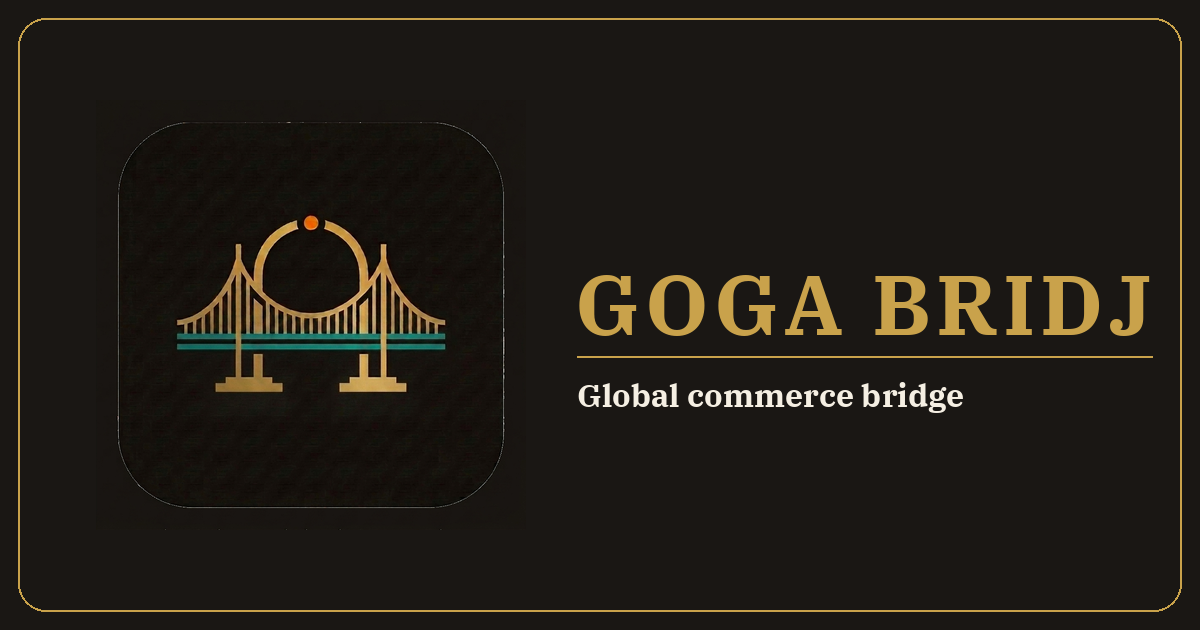
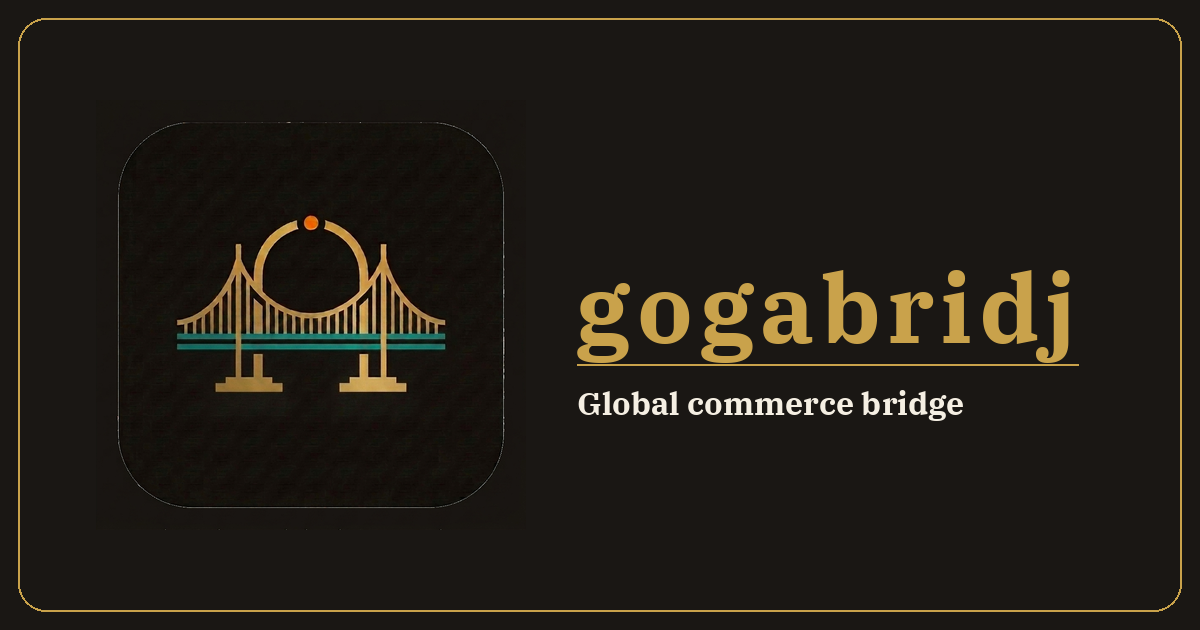
v38 #2: 표기 동시반영 Goga Bridj → gogabridj
- 영문 정식 표기를 'gogabridj'(전부 소문자·붙임)으로 확정, 띄어쓴 'Goga
  Bridj'·'GOGA BRIDJ' 전수 교체(사용자 노출만, 내부 식별자·repo·도메인 보존).
- branding.py _DEFAULT_BRAND_EN='gogabridj' + 하드코딩 리터럴 스윕(py/html/js/
  svg/css 23+곳: 콘솔 헤더·title·OG·랜딩·토스트·푸터·이메일/알림·sw push 제목·
  favicon aria·매니페스트 name). 매니페스트 양쪽 name='gogabridj'.
- OG 카드 워드마크 'GOGA BRIDJ'→'gogabridj' 재생성 + og:image 캐시 v=2→v=3.
- 영향 테스트 갱신 + 가드 test_v38_brand_gogabridj(4). 전체 10441 passed.
- before/after: docs/screens/v38/naming-{before,after}.png

Claude-Session: https://claude.ai/code/session_01PxGVkp5f6YphwkqMwzi5ZE

Changed region(s): [[0.4625, 0.4222, 0.9558, 0.6635]]

diff --git a/src/templates/landing.html b/src/templates/landing.html
@@ -2,7 +2,7 @@
    이모지 0 · 단일 아이콘셋(bi-*) · 토큰 단일소스 · 실데이터만(가짜 수치/혜택 0) · reduced-motion 존중. #}
 {% extends "_base_app.html" %}
 
-{% block title %}{{ brand_name|default('GOGA BRIDJ', true) }} — 해외 상품 수집부터 마켓 등록까지{% endblock %}
+{% block title %}{{ brand_name|default('gogabridj', true) }} — 해외 상품 수집부터 마켓 등록까지{% endblock %}
 {% block head %}
 <link rel="privacy-policy" href="/privacy">
 <style>
@@ -113,7 +113,7 @@
 
 <nav class="lpnav" id="lpnav">
   <div class="inner">
-    <a href="/" class="logo"><img src="/seller/static/favicon.svg?v=176" alt=""> {{ brand_name|default('GOGA BRIDJ', true) }}</a>
+    <a href="/" class="logo"><img src="/seller/static/favicon.svg?v=176" alt=""> {{ brand_name|default('gogabridj', true) }}</a>
     <div class="ms-auto d-flex align-items-center gap-3">
       <a href="#features" class="navlink d-none d-md-inline">{{ 'Features' if EN else '기능' }}</a>
       <a href="#how" class="navlink d-none d-md-inline">{{ 'How it works' if EN else '작동 방식' }}</a>
@@ -166,7 +166,7 @@
       </div>
       <div class="reveal">
         <hr class="hairline d-md-none">
-        <div class="overline">{{ 'With Goga Bridj' if EN else '고가브릿지라면' }}</div>
+        <div class="overline">{{ 'With gogabridj' if EN else '고가브릿지라면' }}</div>
         <h2 class="disp">{{ 'All in one flow' if EN else '한 번에, 흐름대로' }}</h2>
         <p class="lead">{{ 'Collect with one click, auto-translate, set prices in bulk, and list to many markets at once.' if EN else '한 번에 수집·자동 번역·일괄 가격, 그리고 여러 마켓에 한 번에 등록. 다리(Bridj)처럼 이어줍니다.' }}</p>
       </div>
@@ -287,7 +287,7 @@
 
 <footer class="lpfoot">
   <div class="inner">
-    <span class="fw-semibold" style="color:var(--text);">{{ brand_name|default('GOGA BRIDJ', true) }}</span>
+    <span class="fw-semibold" style="color:var(--text);">{{ brand_name|default('gogabridj', true) }}</span>
     <a href="/seller/about">{{ "About" if EN else "소개" }}</a>
     <a href="/seller/start">{{ "Get started" if EN else "시작하기" }}</a>
     <a href="/privacy">개인정보처리방침</a>

diff --git a/src/templates/_base_app.html b/src/templates/_base_app.html
@@ -2,10 +2,10 @@
 {# 공통 베이스 템플릿 #}
 <html lang="ko">
 <head>
-  {% set _brand_name = brand_name|default('GOGA BRIDJ', true) %}
+  {% set _brand_name = brand_name|default('gogabridj', true) %}
   <meta charset="utf-8">
   <meta name="viewport" content="width=device-width, initial-scale=1">
-  <title>{% block title %}GOGA BRIDJ{% endblock %} | {{ _brand_name }}</title>
+  <title>{% block title %}gogabridj{% endblock %} | {{ _brand_name }}</title>
   {# v16 P1: 링크 공유 카드 브랜딩 — 이름·소개·이미지가 제대로 뜨도록 OG/트위터 정비 #}
   {% set _og_base = (request.url_root.rstrip('/') if request else '') %}
   <meta name="description" content="{{ self.og_description() }}">
@@ -13,12 +13,12 @@
   <meta property="og:type" content="website">
   <meta property="og:title" content="{% block og_title %}{{ _brand_name }} — 해외 상품 수집부터 마켓 등록까지 한 번에{% endblock %}">
   <meta property="og:description" content="{% block og_description %}해외 상품을 수집·번역·다듬어 내 마켓에 올리는 구매대행 올인원. 고가브릿지.{% endblock %}">
-  <meta property="og:image" content="{% block og_image %}{{ _og_base }}/seller/static/og-card.png?v=2{% endblock %}">
+  <meta property="og:image" content="{% block og_image %}{{ _og_base }}/seller/static/og-card.png?v=3{% endblock %}">
   <meta property="og:url" content="{{ request.url if request else _og_base }}">
   <meta name="twitter:card" content="summary_large_image">
   <meta name="twitter:title" content="{{ self.og_title() }}">
   <meta name="twitter:description" content="{{ self.og_description() }}">
-  <meta name="twitter:image" content="{{ _og_base }}/seller/static/og-card.png?v=2">
+  <meta name="twitter:image" content="{{ _og_base }}/seller/static/og-card.png?v=3">
   <link rel="icon" type="image/svg+xml" href="/seller/static/favicon.svg?v=176">
   <link rel="icon" type="image/x-icon" href="/seller/static/favicon.ico?v=176">
   <link rel="icon" type="image/png" sizes="32x32" href="/seller/static/favicon-32.png?v=176">

diff --git a/src/seller_console/templates/markets_guide.html b/src/seller_console/templates/markets_guide.html
@@ -40,7 +40,7 @@
           <path d="M0,0 L6,3 L0,6 Z" fill="#9aa"/></marker></defs>
         <rect x="378" y="20" width="174" height="110" rx="10" fill="#f6f9f6" stroke="#bfe3c6"/>
         <rect x="378" y="20" width="174" height="24" rx="10" fill="#e3f5e8"/>
-        <text x="465" y="37" text-anchor="middle" font-size="12" fill="#2b6a3a">GOGA BRIDJ</text>
+        <text x="465" y="37" text-anchor="middle" font-size="12" fill="#2b6a3a">gogabridj</text>
         <rect x="394" y="60" width="142" height="20" rx="5" fill="#fff" stroke="#cfe6d4"/>
         <text x="465" y="74" text-anchor="middle" font-size="10" fill="#789">여기에 붙여넣기</text>
         <rect x="394" y="92" width="142" height="22" rx="6" fill="#198754"/>

diff --git a/src/seller_console/static/sw.js b/src/seller_console/static/sw.js
@@ -1,4 +1,4 @@
-// sw.js — Phase 147 Service Worker (Goga Bridj PWA) · v36 캐시 갱신
+// sw.js — Phase 147 Service Worker (gogabridj PWA) · v36 캐시 갱신
 const CACHE_NAME = 'goga-bridj-v36';
 const STATIC_ASSETS = [
   '/seller/dashboard',
@@ -49,7 +49,7 @@ self.addEventListener('push', event => {
   if (!event.data) return;
   let data = {};
   try { data = event.data.json(); } catch (e) { data = { title: '알림', body: event.data.text() }; }
-  const title = data.title || 'Goga Bridj';
+  const title = data.title || 'gogabridj';
   const options = {
     body: data.body || '',
     icon: data.icon || undefined,

diff --git a/src/seller_console/templates/partials/topnav.html b/src/seller_console/templates/partials/topnav.html
@@ -3,8 +3,8 @@
   <div class="container-fluid">
     <a class="navbar-brand fw-bold" href="/">
       <i class="bi bi-bag-check-fill text-teal me-1"></i>
-      {{ brand_name|default('GOGA BRIDJ', true) }}
-      <small class="text-secondary fw-normal" style="font-size:.65rem;">GOGA BRIDJ</small>
+      {{ brand_name|default('gogabridj', true) }}
+      <small class="text-secondary fw-normal" style="font-size:.65rem;">gogabridj</small>
     </a>
     <button class="navbar-toggler" type="button"
             data-bs-toggle="collapse" data-bs-target="#topNav"

diff --git a/src/templates/partials/topnav.html b/src/templates/partials/topnav.html
@@ -3,8 +3,8 @@
   <div class="container-fluid">
     <a class="navbar-brand fw-bold" href="/">
       <i class="bi bi-bag-check-fill text-teal me-1"></i>
-      {{ brand_name|default('GOGA BRIDJ', true) }}
-      <small class="text-secondary fw-normal" style="font-size:.65rem;">GOGA BRIDJ</small>
+      {{ brand_name|default('gogabridj', true) }}
+      <small class="text-secondary fw-normal" style="font-size:.65rem;">gogabridj</small>
     </a>
     <button class="navbar-toggler" type="button"
             data-bs-toggle="collapse" data-bs-target="#topNav"

diff --git a/src/static/app.css b/src/static/app.css
@@ -1,4 +1,4 @@
-/* app.css — 공통 디자인 토큰/컴포넌트 (Phase 234 — 고가브릿지/Goga Bridj 디자인 시스템)
+/* app.css — 공통 디자인 토큰/컴포넌트 (Phase 234 — 고가브릿지/gogabridj 디자인 시스템)
  *
  * catdyy(KOHGANE 고가네) 무드의 에디토리얼 럭셔리:
  *   먹(ink) 베이스 · 한지(hanji) 크림 · 금(antique gold) 악센트 · 청록(teal) Primary.

diff --git a/src/dashboard/templates/partials/topnav.html b/src/dashboard/templates/partials/topnav.html
@@ -3,7 +3,7 @@
   <div class="container-fluid">
     <a class="navbar-brand fw-bold" href="/">
       <i class="bi bi-bag-check-fill text-teal me-1"></i>
-      {{ brand_name|default('Goga Bridj', true) }}
+      {{ brand_name|default('gogabridj', true) }}
       <small class="text-secondary fw-normal" style="font-size:.65rem;">Kohgane Percentiii</small>
     </a>
     <button class="navbar-toggler" type="button"

diff --git a/src/seller_console/templates/_base.html b/src/seller_console/templates/_base.html
@@ -1,7 +1,7 @@
 <!DOCTYPE html>
 <html lang="{{ current_lang|default('ko', true) }}">
 <head>
-  {% set _brand_name = brand_name|default('GOGA BRIDJ', true) %}
+  {% set _brand_name = brand_name|default('gogabridj', true) %}
   <meta charset="utf-8">
   <meta name="viewport" content="width=device-width, initial-scale=1">
   <title>{% block title %}셀러 콘솔{% endblock %} | {{ _brand_name }}</title>

diff --git a/src/dashboard/templates/base.html b/src/dashboard/templates/base.html
@@ -1,7 +1,7 @@
 <!DOCTYPE html>
 <html lang="ko">
 <head>
-  {% set _brand_name = brand_name|default('Goga Bridj', true) %}
+  {% set _brand_name = brand_name|default('gogabridj', true) %}
   <meta charset="utf-8">
   <meta name="viewport" content="width=device-width, initial-scale=1">
   <title>{% block title %}Admin{% endblock %} | {{ _brand_name }}</title>

diff --git a/src/dashboard/admin_views.py b/src/dashboard/admin_views.py
@@ -1916,7 +1916,7 @@ def _build_pwa_status() -> dict:
         "viewport_meta": True,  # _base.html에 고정 포함
         "manifest_linked": True,  # _base.html에 고정 포함
         "sw_registered": True,   # _base.html JS에서 등록
-        "app_name": os.getenv("PWA_APP_NAME", "Goga Bridj"),
+        "app_name": os.getenv("PWA_APP_NAME", "gogabridj"),
     }
 
 
@@ -2220,7 +2220,7 @@ def _build_oauth_diagnostics(base_url: str, oauth_urls: dict) -> list[dict]:
     google_runtime = _oauth_runtime("google")
     kakao_runtime = _oauth_runtime("kakao")
     naver_runtime = _oauth_runtime("naver")
-    brand_name_source = "BRAND_NAME env" if os.getenv("BRAND_NAME") else "기본값 Goga Bridj"
+    brand_name_source = "BRAND_NAME env" if os.getenv("BRAND_NAME") else "기본값 gogabridj"
 
     # 베이스 URL 출처 표기
     _base_src = (
@@ -3340,7 +3340,7 @@ _DIAGNOSTICS_TEMPLATE = """
             <li>site brand_name: <code>{{ brand_name }}</code></li>
             <li>og:site_name / og:title: <code>{{ brand_name }}</code></li>
             <li>동의 화면 앱 이름은 보이는 텍스트일 뿐이며 <strong>redirect_uri_mismatch 차단 원인은 아닙니다</strong>.</li>
-            <li>앱 이름 기대값 출처: <code>BRAND_NAME</code> env (미설정 시 기본값 <code>Goga Bridj</code>)</li>
+            <li>앱 이름 기대값 출처: <code>BRAND_NAME</code> env (미설정 시 기본값 <code>gogabridj</code>)</li>
             <li>브랜딩을 맞추려면 동의 화면 표시 이름을 <code>{{ brand_name }}</code>로 정리하세요.</li>
           </ul>
           <a class="btn btn-outline-secondary btn-sm" target="_blank" href="https://console.cloud.google.com/auth/branding">콘솔 열기</a>

diff --git a/tests/test_v38_brand_gogabridj.py b/tests/test_v38_brand_gogabridj.py
@@ -1,0 +1,38 @@
+"""tests/test_v38_brand_gogabridj.py — v38: 영문 표기 'gogabridj' 동시반영(띄어쓴 옛 표기 0)."""
+from __future__ import annotations
+
+import json
+import subprocess
+from pathlib import Path
+
+import pytest
+
+
+def test_brand_en_default_lowercase_nospace():
+    from src.utils.branding import get_brand_name
+    assert get_brand_name() == "gogabridj"
+
+
+def test_no_spaced_english_brand_in_source():
+    # 사용자 노출 영문 표기에 'Goga Bridj'·'GOGA BRIDJ'(띄어쓴 옛 표기) 잔존 0 (소스 전수, tests 제외)
+    res = subprocess.run(
+        ["grep", "-rIn", "-e", "Goga Bridj", "-e", "GOGA BRIDJ", "src/", "extensions/"],
+        capture_output=True, text=True,
+    )
+    assert res.stdout.strip() == "", f"띄어쓴 영문 표기 잔존:\n{res.stdout}"
+
+
+def test_manifest_name_is_gogabridj():
+    for fn in ("manifest.json", "manifest.webmanifest"):
+        m = json.loads(Path(f"src/seller_console/static/{fn}").read_text(encoding="utf-8"))
+        assert m["name"] == "gogabridj", fn
+
+
+def test_console_sidebar_shows_gogabridj():
+    import os
+    os.environ["SELLER_CONSOLE_AUTH"] = "0"
+    from src.order_webhook import app
+    with app.test_client() as c:
+        html = c.get("/seller/dashboard").get_data(as_text=True)
+    assert "gogabridj" in html
+    assert "Goga Bridj" not in html and "GOGA BRIDJ" not in html
